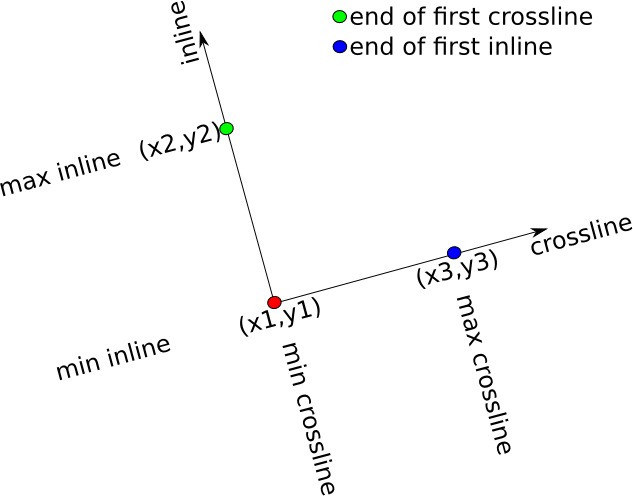
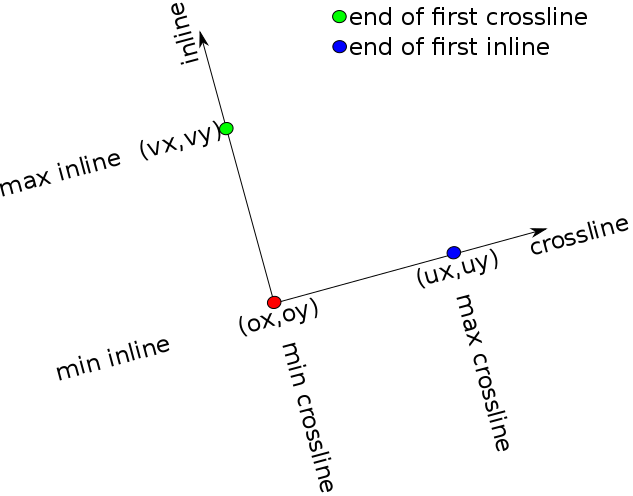
New geometry code
1. If the user does not specify the geometry, then do not write a geometry to the JavaSeis file
2. Define all three axes, rather than just the two surface coordinates

This is a breaking change.

diff --git a/docs/src/README.md b/docs/src/README.md
@@ -181,7 +181,7 @@ An array of custom trace properties.  These are in addition to a minimal set of 
 * `dataproperties::Array{DataProperty, 1}`<br>
 An array of custom data properties.  One property per data-set rather than one property per trace as in `properties` above.
 
-* `geom::Geometry`<br>
+* `geometry::Geometry`<br>
 An optional three point geometry can be embedded in the JavaSeis file.
 
 * `properties_add::Array{TracePropertyDef}`
@@ -436,9 +436,9 @@ Then the secondary location is determined by replacing `/home/joe/projects` in `
 
 TeaSeis.jl provides support for storing survey geometry using three-points to define rotated/translated coordinate system.
 ```julia
-geom = Geometry(min_inline, max_inline, min_crossline, max_crossline, x1, y1, x2, y2, x3, y3)
+geom = Geometry(u1=1,un=2,v1=1,vn=2,w1=1,wn=2,ux=1.0,uy=0.0,uz=0.0,vx=0.0,vy=1.0,vz=0.0,wx=0.0,wy=0.0,wz=1.0)
 ```
-where (x1,y1) is at the intersection of the inline and crossline axes.  (x2,y2) is the end of the first crossline, and (x3,y3) is the end of the first inline.  TeaSeis.jl does not provide any tools for using this geometry to manipulate trace coordinates.  I would recommend that this functionality be put into a separate package.
+where `(ox,oy,oz)` is the origin, `(ux,uy,uz)` is a vector to define the end of the `u-axis` (e.g. cross-line axis), `(vx,vy,vz)` is the end of the `v-axis` (e.g. the in-line axis), and `(wx,wy,wz)` is the end of the `w-axis` (e.g. the depth axis).  `(u1,un)` are the first and last bin indices along the `u-axis`, `(v1,vn)` are the first and last bin indices along the `v-axis`, and `(w1,wn)` are the first and last bin indices along the `w-axis`.  TeaSeis.jl does not provide any tools for using this geometry to manipulate trace coordinates.  I would recommend that this functionality be put into a separate package.
 
 <center>![](geometry.png)</center>
 
@@ -481,6 +481,7 @@ isempty(io)            # returns true if the dataset is empty (without trace or 
 in(prop,io)            # returns true if the trace property `prop` exists in `io` --  `prop` can be of types `::TraceProperty`, `::TracePropertyDef`, or `::String`
 dataproperty(io,nm)    # returns the value held in the data property: `nm::String`
 hasdataproperty(io,nm) # returns true if the data property corresponding to label `nm::String` is in `io::JSeis`
+geometry(io)           # returns `Geometry`, the stored geometry of the dataset.  If no geometry is stored, `nothing` is returned
 ```
 Convenience methods are supplied for manipulating `io::JSeis`:
 ```julia
